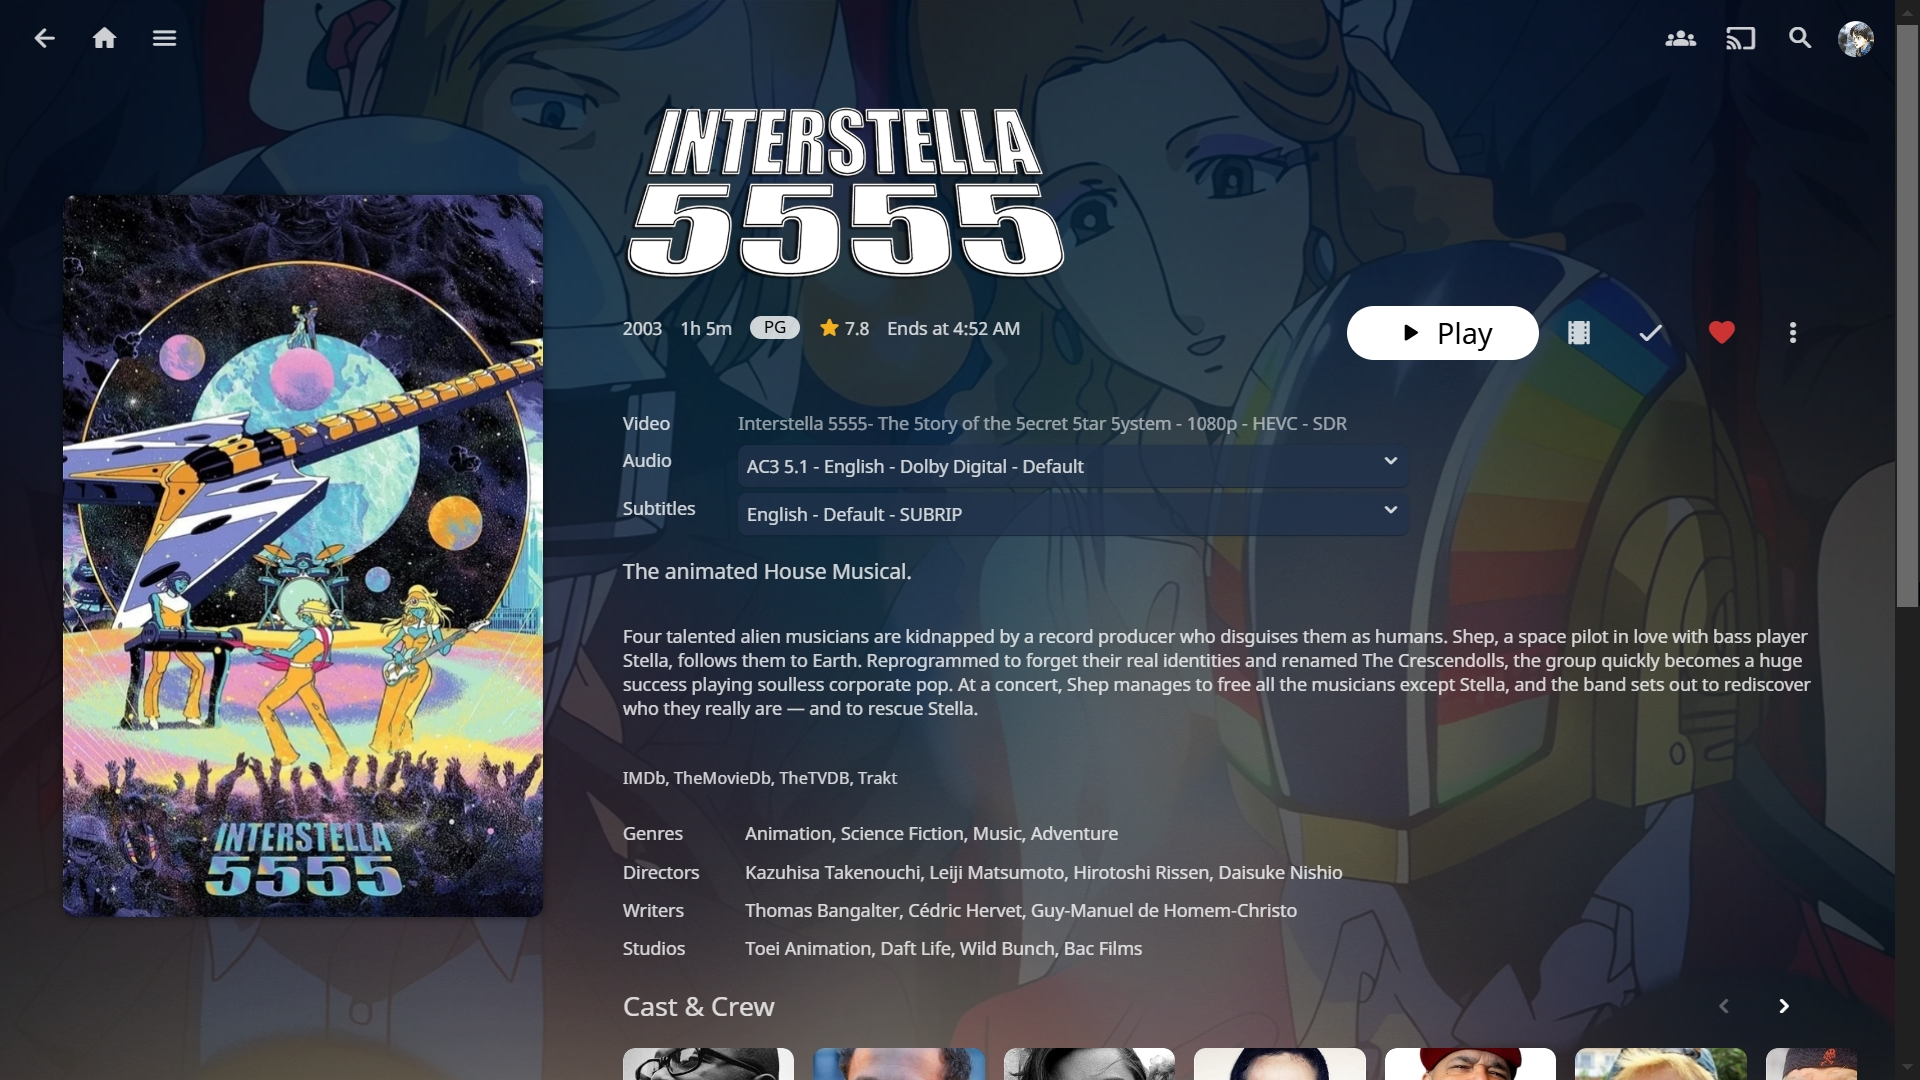
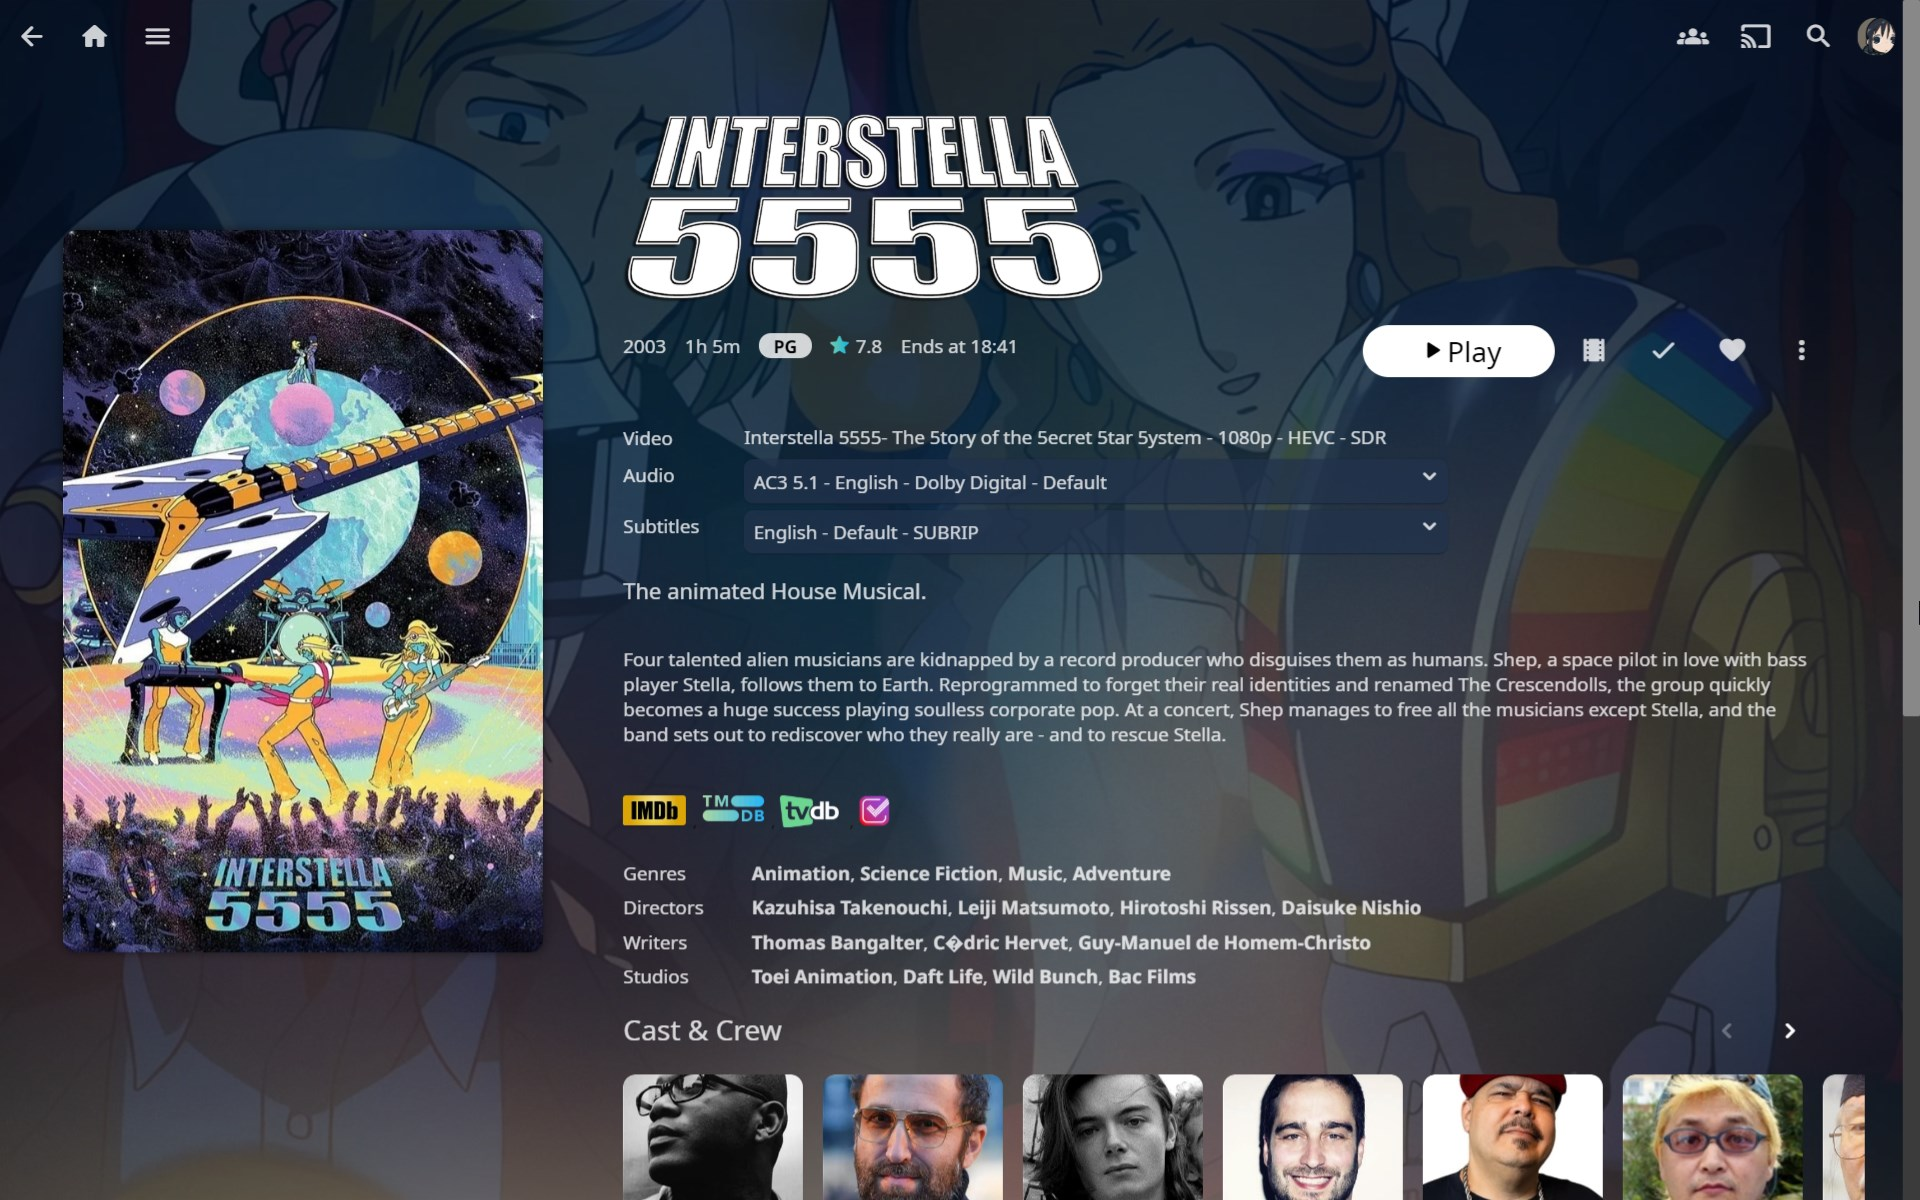
README: Add the images and replace old ones | Add guide for settings

diff --git a/README.md b/README.md
@@ -6,15 +6,21 @@
 
 ![](.github/images/Favourites.jpg)
 
+![](.github/images/Sidemenu.jpg)
 
 ## Usage
 Dashboard -> General -> Custom CSS code:
 ```
 @import url("https://cdn.jsdelivr.net/gh/Arrow420/Medusa@main/Medusa.css");
 ```
-
+Settings:
+```
+Settings -> Display -> Theme: Select 'Blue Radience'
+Settings -> Display -> Theme: Tick 'Backdrops'
+```
 
 ### Library
+![](.github/images/Library_Thumbview.jpg)
 ![](.github/images/Library_Posterview.jpg)
 
 
@@ -22,6 +28,8 @@ Dashboard -> General -> Custom CSS code:
 ![](.github/images/SeriesOverview.jpg)
 
 ![](.github/images/Season.jpg)
+
+![](.github/images/Episode.jpg)
 
 ![](.github/images/MovieOverview.jpg)
 
@@ -31,7 +39,7 @@ Dashboard -> General -> Custom CSS code:
 
 
 ------------------------------
-### Custom Subtitle styling for Jellyfin Media Player
+### My Custom Subtitle styling for Jellyfin Media Player
 ![](.github/images/Subtitles.jpg)
 Paste into "Settings -> Client Settings -> Other - Manual MPV Configuration":
 ```
@@ -48,7 +56,7 @@ sub-shadow-color="#000000"
 sub-fix-timing=no
 stretch-image-subs-to-screen=no
 sub-filter-sdh=yes
-sub-filter-sdh-harder=yes
+sub-filter-sdh-harder=no
 sub-filter-regex-enable=yes
 sub-filter-jsre=opensubtitles|addic7ed|subscene|(English - US - SDH)|dreaMaker7|(sync.+?corrected by)|(www\.tvsubtitles\.net)
 sub-use-margins=no
